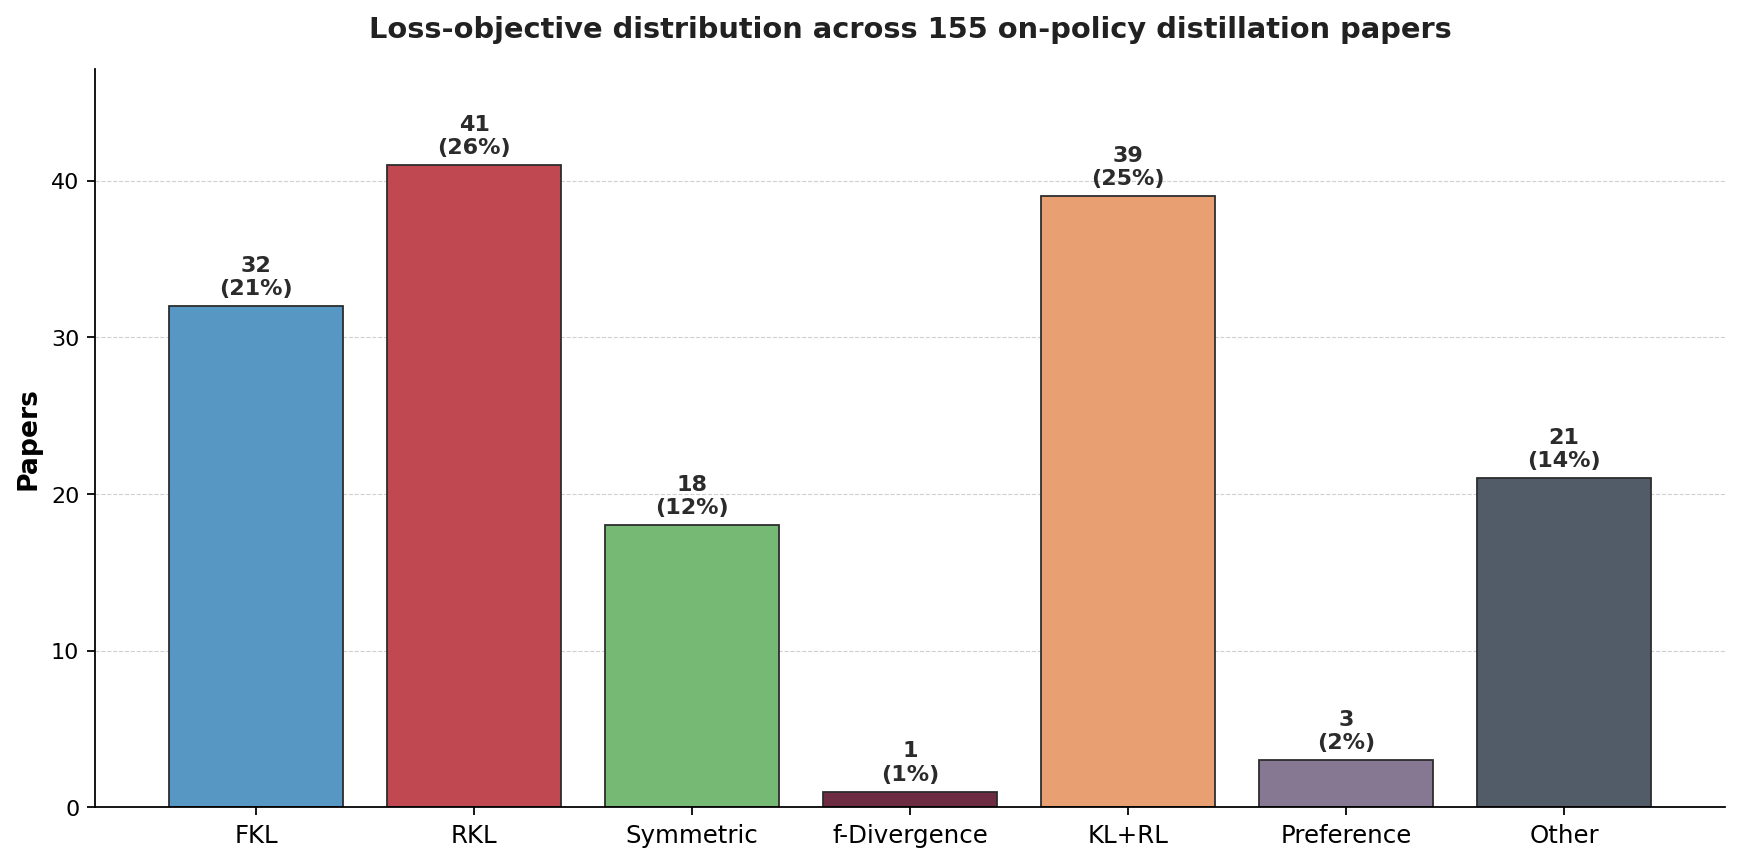
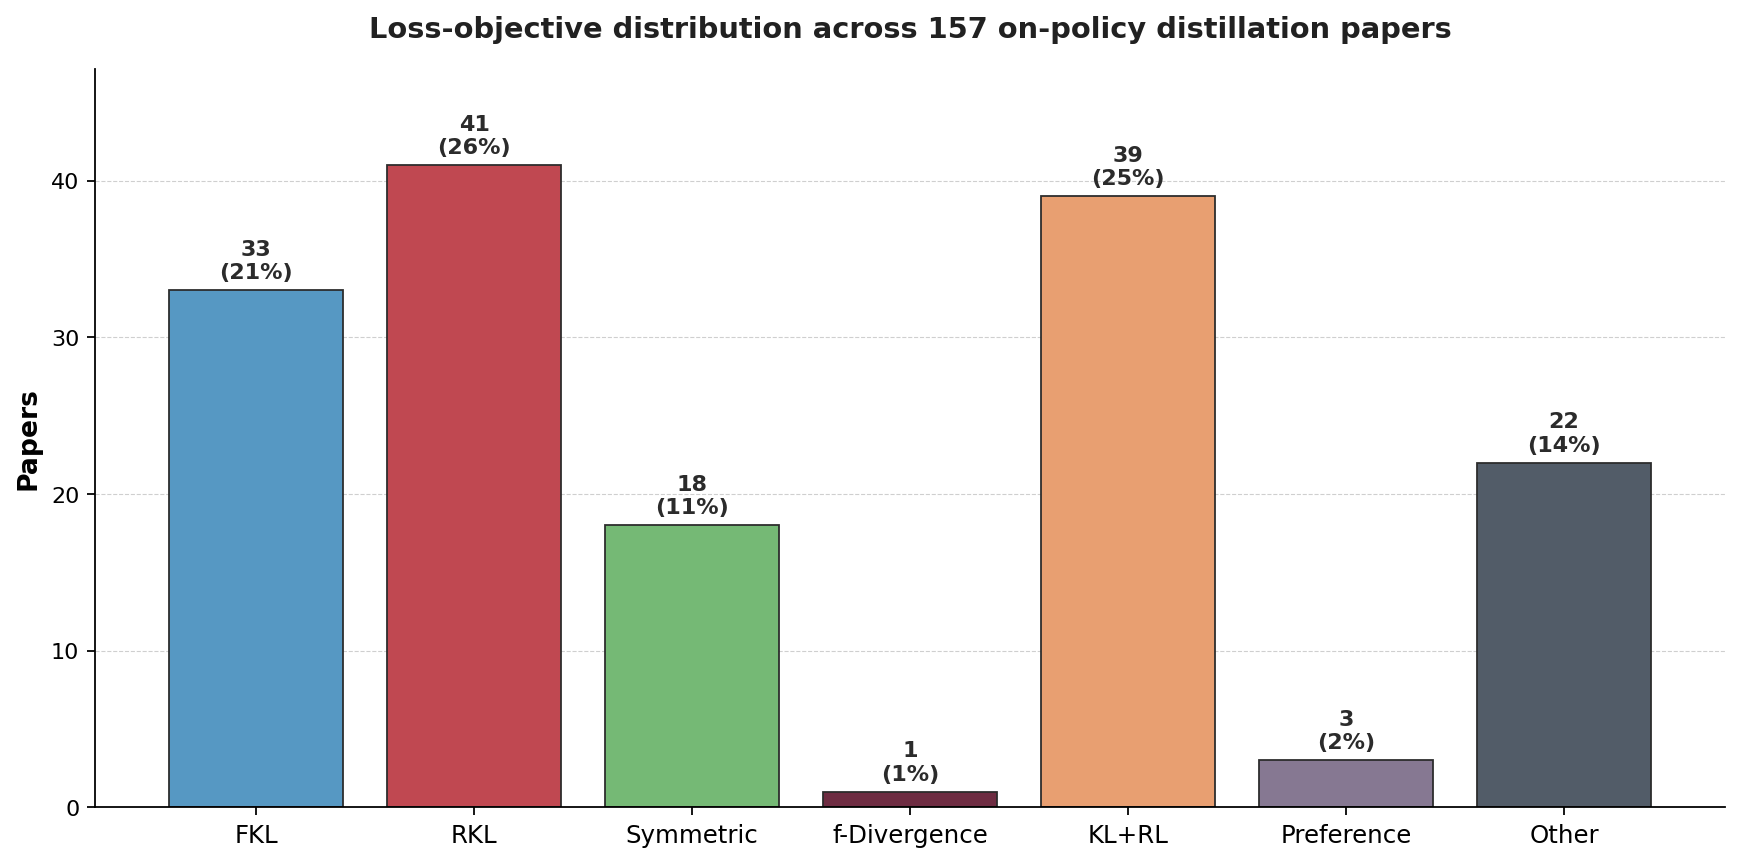
loss-taxonomy: refresh (auto, daily-pipeline Phase 6)

Changed region(s): [[0.8374, 0.482, 0.9615, 0.5724], [0.093, 0.2711, 0.2171, 0.3615]]

diff --git a/resources/loss-taxonomy.md b/resources/loss-taxonomy.md
@@ -1,26 +1,26 @@
 # Loss Taxonomy of On-Policy Distillation Papers
 
-_Last updated: 2026-06-03. Auto-generated from `data/loss_classification.json`. Re-run `scripts/generate_loss_taxonomy.py` to refresh._
+_Last updated: 2026-06-04. Auto-generated from `data/loss_classification.json`. Re-run `scripts/generate_loss_taxonomy.py` to refresh._
 
-Each of the **155** OPD papers in this collection is assigned exactly one of seven mutually-exclusive loss classes. Classification is performed by an LLM auditor that reads each paper's `loss_formulation` (LaTeX), training-loop description, and key components, then picks the dominant objective per the rules in `data/loss_taxonomy_schema.json`.
+Each of the **157** OPD papers in this collection is assigned exactly one of seven mutually-exclusive loss classes. Classification is performed by an LLM auditor that reads each paper's `loss_formulation` (LaTeX), training-loop description, and key components, then picks the dominant objective per the rules in `data/loss_taxonomy_schema.json`.
 
 ![Loss Distribution](../assets/loss-distribution.png)
 
 ## Class definitions (compact)
 
-### FKL — Forward KL  ·  **32** papers (20.6%)
+### FKL — Forward KL  ·  **33** papers (21.0%)
 
 `D_KL( \pi_T(\cdot|x) \| \pi_\theta(\cdot|x) )`
 
 _Match rule._ Loss is dominated by forward KL where the teacher distribution is the first argument (mode-covering). Includes classical KD with KL(teacher || student), CE-on-teacher-soft-targets when explicitly equivalent.
 
-### RKL — Reverse KL  ·  **41** papers (26.5%)
+### RKL — Reverse KL  ·  **41** papers (26.1%)
 
 `D_KL( \pi_\theta(\cdot|x) \| \pi_T(\cdot|x) )`
 
 _Match rule._ Loss is dominated by reverse KL where the student distribution is the first argument (mode-seeking). MiniLLM-style policy-gradient interpretations also fall here when the underlying objective is RKL to a teacher.
 
-### Symmetric — Symmetric / Skewed KL / JSD / GKL  ·  **18** papers (11.6%)
+### Symmetric — Symmetric / Skewed KL / JSD / GKL  ·  **18** papers (11.5%)
 
 `D_JSD, D_skew-KL_\alpha, D_GKL, or any symmetrized KL combination`
 
@@ -32,7 +32,7 @@ _Match rule._ Jensen-Shannon divergence; skewed forward/reverse KL with mixture 
 
 _Match rule._ Adaptive KL family that interpolates a parameter between FKL and RKL via alpha-divergence (AKL / TAID-style). Renyi divergence. Chi-squared. Tsallis.
 
-### KL+RL — Hybrid KL distill + RL reward  ·  **39** papers (25.2%)
+### KL+RL — Hybrid KL distill + RL reward  ·  **39** papers (24.8%)
 
 `L = D_KL(teacher, student) + \lambda \cdot R(x,a) (or GRPO/PPO surrogate with teacher KL)`
 
@@ -44,7 +44,7 @@ _Match rule._ Loss explicitly mixes a teacher-KL distillation term with a verifi
 
 _Match rule._ Preference-pair loss is the primary distillation signal: DPO, IPO, SimPO, or preference-gap KL where teacher provides the chosen response and student avoids rejected.
 
-### Other — Other / Bespoke (NLL, MSE, Contrastive, special)  ·  **21** papers (13.5%)
+### Other — Other / Bespoke (NLL, MSE, Contrastive, special)  ·  **22** papers (14.0%)
 
 `any objective that does not fit the six classes above`
 
@@ -54,25 +54,26 @@ _Match rule._ MSE on hidden states, contrastive InfoNCE between teacher/student 
 
 | Class | Papers | Share |
 |---|---:|---:|
-| FKL | 32 | 20.6% |
-| RKL | 41 | 26.5% |
-| Symmetric | 18 | 11.6% |
+| FKL | 33 | 21.0% |
+| RKL | 41 | 26.1% |
+| Symmetric | 18 | 11.5% |
 | f-Divergence | 1 | 0.6% |
-| KL+RL | 39 | 25.2% |
+| KL+RL | 39 | 24.8% |
 | Preference | 3 | 1.9% |
-| Other | 21 | 13.5% |
-| **Total** | **155** | 100% |
+| Other | 22 | 14.0% |
+| **Total** | **157** | 100% |
 
-_Confidence breakdown: high=103, medium=51, low=1._
+_Confidence breakdown: high=103, medium=53, low=1._
 
 ![Loss Evolution Over Time](../assets/loss-evolution.png)
 
 ## Per-paper assignments
 
-### FKL (32)
+### FKL (33)
 
 | arXiv | Title | Conf | Evidence |
 |---|---|---|---|
+| [2606.03603](https://arxiv.org/abs/2606.03603) | World Models Meet Language Models: On the Complementarity of Concrete and Abstract Reas... | medium | L_disc = D_KL(sg[q_t^*] \|\| π_θ) is forward KL with stopped-gradient teacher q_t* as first argument. |
 | [2606.00147](https://arxiv.org/abs/2606.00147) | RAFT: Data Refinement and Adaptive Distillation for Domain Fine-Tuning with Alleviated ... | high | L_KL = (T^2/N) Σ KL(q̃ ∥ p̃) where q̃ is teacher soft target, p̃ is student — forward KL(teacher \|\| student). |
 | [2605.27255](https://arxiv.org/abs/2605.27255) | Pair-In, Pair-Out: Latent Multi-Token Prediction for Efficient LLMs | medium | Token-level distillation using teacher probability on student rollouts corresponds to cross-entropy with teacher soft targets, ... |
 | [2605.27186](https://arxiv.org/abs/2605.27186) | MAIGO: Mitigating Lost-in-Conversation with History-Cleaned On-Policy Self-Distillation | medium | Token-level distillation from clean self-references implies KL(teacher\|\|student) or CE on teacher soft targets, standard forw... |
@@ -133,7 +134,7 @@ _Confidence breakdown: high=103, medium=51, low=1._
 | [2605.00642](https://arxiv.org/abs/2605.00642) | Learn where to Click from Yourself: On-Policy Self-Distillation for GUI Grounding | high | Loss is D_KL(P^S(y_t) \|\| P^T(y_t)) with expectation over student samples y ~ P^S, which is reverse KL. |
 | [2604.17535](https://arxiv.org/abs/2604.17535) | OPSDL: On-Policy Self-Distillation for Long-Context Language Models | high | Policy gradient with advantage A_t = log π_Teacher - log π_θ under on-policy student samples is the REINFORCE gradient of rever... |
 | [2604.14084](https://arxiv.org/abs/2604.14084) | TIP: Token Importance in On-Policy Distillation | high | Loss is D_KL(P_S(·\|c_t) ‖ P_T(·\|c_t)), i.e., student distribution as first argument — reverse KL. |
-| [2604.13010](https://arxiv.org/abs/2604.13010) | Lightning OPD: Efficient Post-Training for Large Reasoning Models with Offline On-Polic... | high | A_t = log π_T - log π_θ; maximizing J_off = E[Σ A_t] minimizes E_{π_ref}[log π_θ - log π_T], equivalent to reverse KL under π_r... |
+| [2604.13010](https://arxiv.org/abs/2604.13010) | Lightning OPD: Efficient Post-Training for Large Reasoning Models with Offline On-Polic... | high | A_t = log π_T - log π_θ summed over tokens equals reverse KL D_KL(π_ref \|\| π_T) gradient w.r.t. θ, matching MiniLLM-style pol... |
 | [2604.12002](https://arxiv.org/abs/2604.12002) | Self-Distillation Zero: Self-Revision Turns Binary Rewards into Dense Supervision | high | L_Self-Distillation uses D_KL(π_θ(·\|x,y_{<t}) \|\| π_{θ_SRT}(·\|x,y,P_r,y_{<t})), student is first argument = reverse KL. |
 | [2604.08527](https://arxiv.org/abs/2604.08527) | Demystifying OPD: Length Inflation and Stabilization Strategies for Large Language Models | high | Token-level reverse-KL advantage Aᵢ,ₜ = log πT − log πθ used in GRPO-clip objective is policy-gradient minimization of D_KL(πθ‖... |
 | [2603.26666](https://arxiv.org/abs/2603.26666) | VLA-OPD: Bridging Offline SFT and Online RL for Vision-Language-Action Models via On-Po... | high | Objective is J(θ) = E_{s~π_θ}[-D_KL(π_θ(·\|s) \|\| π_tea(·\|s))], explicitly reverse KL with student as first argument. |
@@ -231,12 +232,13 @@ _Confidence breakdown: high=103, medium=51, low=1._
 |---|---|---|---|
 | [2605.05040](https://arxiv.org/abs/2605.05040) | Preference-Based Self-Distillation: Beyond KL Matching via Reward Regularization | high | Loss is DPO-style Bradley-Terry log σ(β[log-ratio margin]) with teacher as reference policy, paired chosen/rejected samples. |
 | [2604.28123](https://arxiv.org/abs/2604.28123) | Beyond SFT-to-RL: Pre-alignment via Black-Box On-Policy Distillation for Multimodal RL | high | Bradley-Terry loss on discriminator comparing supervision y+ vs rollout y-, minimax adversarial preference-pair alignment. |
-| [2410.09008](https://arxiv.org/abs/2410.09008) | SuperCorrect: Advancing Small LLM Reasoning with Thought Template Distillation and Self... | high | Stage-2 Cross-model DPO loss uses log-sigmoid margin between teacher-corrected positive and student-generated negative pairs, c... |
+| [2410.09008](https://arxiv.org/abs/2410.09008) | SuperCorrect: Advancing Small LLM Reasoning with Thought Template Distillation and Self... | high | Cross-model collaborative DPO loss with log-sigmoid of log-ratio margins between teacher-chosen and student-rejected responses. |
 
-### Other (21)
+### Other (22)
 
 | arXiv | Title | Conf | Evidence |
 |---|---|---|---|
+| [2606.02684](https://arxiv.org/abs/2606.02684) | Filter, Then Reweight: Rethinking Optimization Granularity in On-Policy Distillation | medium | PPO-clipped surrogate loss with teacher-derived weighted advantages; no explicit KL divergence term between teacher and student... |
 | [2606.02372](https://arxiv.org/abs/2606.02372) | COMAP: Co-Evolving World Models and Agent Policies for LLM Agents | medium | Loss is NLL on environment next-state prediction plus EMA self-distillation and BCE/NLL policy terms, no explicit KL divergence... |
 | [2606.01476](https://arxiv.org/abs/2606.01476) | OmniOPD: Logit-Free On-Policy Distillation via Speculative Verification | medium | Loss is weighted NLL on teacher-scored chunks (semantic similarity scores as weights), not a KL divergence between teacher/stud... |
 | [2605.28791](https://arxiv.org/abs/2605.28791) | Skill-Conditioned Gated Self-Distillation for LLM Reasoning | medium | Gated distillation objective uses bounded log-sigmoid of token gap squared, not a standard KL divergence formulation. |
@@ -257,7 +259,7 @@ _Confidence breakdown: high=103, medium=51, low=1._
 | [2505.16142](https://arxiv.org/abs/2505.16142) | RLKD: Distilling LLMs' Reasoning via Reinforcement Learning | medium | GRPO with reward signals (R_acc, R_gsrm, R_format, R_tag); no explicit KL divergence to teacher distribution in the loss. |
 | [2504.19024](https://arxiv.org/abs/2504.19024) | KETCHUP: K-Step Return Estimation for Sequential Knowledge Distillation | high | REINFORCE policy gradient with K-step Bellman return using teacher Q-values as reward; no explicit KL divergence term in loss. |
 | [2504.14945](https://arxiv.org/abs/2504.14945) | Learning to Reason under Off-Policy Guidance | medium | JSHAPING combines clipped on-policy GRPO with regularized importance-weighted off-policy advantage; no explicit KL divergence t... |
-| [2305.12870](https://arxiv.org/abs/2305.12870) | Lion: Adversarial Distillation of Proprietary Large Language Models | high | Loss is NLL/CE on teacher-generated sequences: L = -sum_t log P_theta(y_t\|x,y_{<t}), no KL divergence term. |
+| [2305.12870](https://arxiv.org/abs/2305.12870) | Lion: Adversarial Distillation of Proprietary Large Language Models | high | Standard SFT/NLL on teacher-generated responses, no KL divergence term between teacher and student distributions. |
 
 ## Methodology
 
